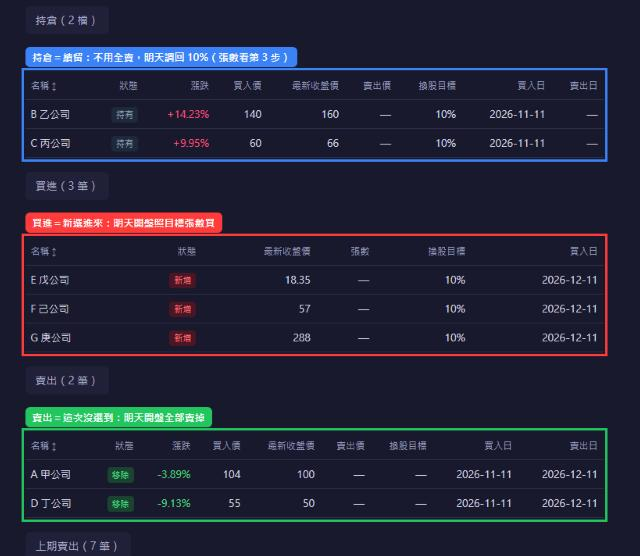
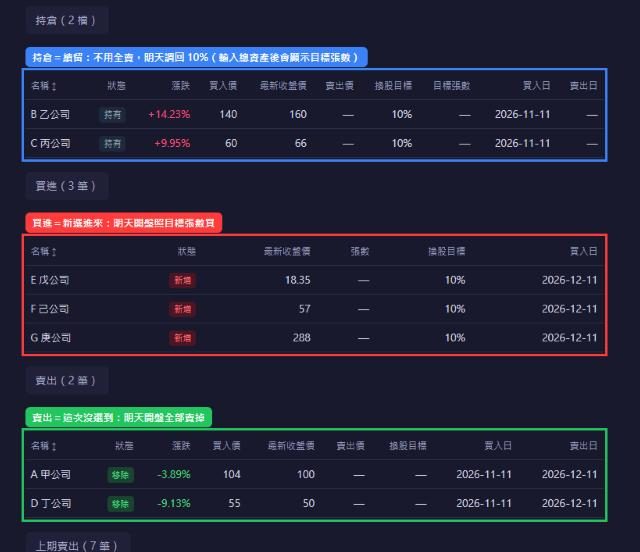
Show target lots for kept stocks in the holdings table
After entering total assets, kept stocks now show their target lots
next to the 10% target, so the order is target minus lots held without
opening the allocation estimate. Tutorial step 3 and its screenshots
show the new column.

diff --git a/watch2/index.html b/watch2/index.html
@@ -1,6 +1,6 @@
 <!doctype html>
 <html lang="zh-Hant"><head><meta charset="utf-8"><meta name="viewport" content="width=device-width,initial-scale=1">
-<title>每月換股策略（固定日期・10 檔）</title><link rel="stylesheet" href="../assets/dashboard.css?v=2994f2f10104"></head>
+<title>每月換股策略（固定日期・10 檔）</title><link rel="stylesheet" href="../assets/dashboard.css?v=844d0f4c621e"></head>
 <body><main class="container">
 <button class="help-btn" id="help-open" type="button">教學</button>
 <h1 id="title"></h1><div class="sub" id="rules"></div><div class="sub" id="date"></div><div class="sub" id="updated"></div>
@@ -24,11 +24,11 @@
 <ol class="help-steps">
 <li><b>選股日晚上 9 點後打開網頁，確認新名單已鎖定。</b>「本期選股日」是今天、「更新時間」是今晚 21:00 以後、而且不是紅字。200 元版如果營收還沒到齊會順延，選股日不是今天就代表今晚不用換股。<img src="../assets/tutorial/1-check-update.png" alt="標題下方的本期選股日與更新時間" loading="lazy"></li>
 <li><b>看三個區塊。</b><br>賣出：這次沒選到，明天開盤全部賣掉。<br>持倉：續留，不用全賣，但要調回總資產的 10%。<br>買進：新選進來，明天開盤買。<img src="../assets/tutorial/2-three-lists.png" alt="持倉、買進、賣出三個區塊" loading="lazy"></li>
-<li><b>輸入帳戶總資產，看每檔目標張數。</b>在「買進」區填「股票市值＋現金」（單位萬元），再展開「各股配置試算（含續留股）」。<img src="../assets/tutorial/3-target-lots.png" alt="輸入總資產後的各股目標張數" loading="lazy"></li>
+<li><b>輸入帳戶總資產，看每檔目標張數。</b>在「買進」區填「股票市值＋現金」（單位萬元），持倉表和買進表就會直接顯示每檔目標張數。<img src="../assets/tutorial/3-target-lots.png" alt="輸入總資產後，持倉表與買進表顯示目標張數" loading="lazy"></li>
 <li><b>算出明天的委託單。</b><br>賣出區：手上張數全部賣。<br>持倉區：目標張數減手上張數，正的買、負的賣。例：乙公司目標 6 張、手上 8 張，就賣 2 張。<br>買進區：照目標張數買。</li>
 <li><b>換股日早上 8 點再看一次。</b>「更新時間」如果變成紅字加警告，代表昨晚沒有更新成功，先不要下單。<img src="../assets/tutorial/4-stale-warning.png" alt="更新時間變紅並出現警告" loading="lazy"></li>
 <li><b>8:30～9:00 盤前同時下賣單和買單。</b>用市價，或賣單掛跌停、買單掛漲停，讓它們在 9:00 開盤成交，跟回測用開盤價一致。同一天買賣的交割款會互相抵掉，只要準備差額。</li>
 <li><b>換股日晚上網頁更新後確認。</b>買進、賣出變成 0 筆，全部股票都在「持倉」，剛賣掉的移到「上期賣出」。之後到下個月選股日都不用動。</li>
 </ol></div></div>
[1 lines of base64/hex data omitted]
-<script src="../assets/allocation.js?v=2994f2f10104"></script><script src="../assets/dashboard.js?v=2994f2f10104"></script></body></html>
+<script src="../assets/allocation.js?v=844d0f4c621e"></script><script src="../assets/dashboard.js?v=844d0f4c621e"></script></body></html>

diff --git a/2026/index.html b/2026/index.html
@@ -1,6 +1,6 @@
 <!doctype html>
 <html lang="zh-Hant"><head><meta charset="utf-8"><meta name="viewport" content="width=device-width,initial-scale=1">
-<title>每月換股策略（200 元・獲利再投入）</title><link rel="stylesheet" href="../assets/dashboard.css?v=2994f2f10104"></head>
+<title>每月換股策略（200 元・獲利再投入）</title><link rel="stylesheet" href="../assets/dashboard.css?v=844d0f4c621e"></head>
 <body><main class="container">
 <button class="help-btn" id="help-open" type="button">教學</button>
 <h1 id="title"></h1><div class="sub" id="rules"></div><div class="sub" id="date"></div><div class="sub" id="updated"></div>
@@ -24,11 +24,11 @@
 <ol class="help-steps">
 <li><b>選股日晚上 9 點後打開網頁，確認新名單已鎖定。</b>「本期選股日」是今天、「更新時間」是今晚 21:00 以後、而且不是紅字。200 元版如果營收還沒到齊會順延，選股日不是今天就代表今晚不用換股。<img src="../assets/tutorial/1-check-update.png" alt="標題下方的本期選股日與更新時間" loading="lazy"></li>
 <li><b>看三個區塊。</b><br>賣出：這次沒選到，明天開盤全部賣掉。<br>持倉：續留，不用全賣，但要調回總資產的 10%。<br>買進：新選進來，明天開盤買。<img src="../assets/tutorial/2-three-lists.png" alt="持倉、買進、賣出三個區塊" loading="lazy"></li>
-<li><b>輸入帳戶總資產，看每檔目標張數。</b>在「買進」區填「股票市值＋現金」（單位萬元），再展開「各股配置試算（含續留股）」。<img src="../assets/tutorial/3-target-lots.png" alt="輸入總資產後的各股目標張數" loading="lazy"></li>
+<li><b>輸入帳戶總資產，看每檔目標張數。</b>在「買進」區填「股票市值＋現金」（單位萬元），持倉表和買進表就會直接顯示每檔目標張數。<img src="../assets/tutorial/3-target-lots.png" alt="輸入總資產後，持倉表與買進表顯示目標張數" loading="lazy"></li>
 <li><b>算出明天的委託單。</b><br>賣出區：手上張數全部賣。<br>持倉區：目標張數減手上張數，正的買、負的賣。例：乙公司目標 6 張、手上 8 張，就賣 2 張。<br>買進區：照目標張數買。</li>
 <li><b>換股日早上 8 點再看一次。</b>「更新時間」如果變成紅字加警告，代表昨晚沒有更新成功，先不要下單。<img src="../assets/tutorial/4-stale-warning.png" alt="更新時間變紅並出現警告" loading="lazy"></li>
 <li><b>8:30～9:00 盤前同時下賣單和買單。</b>用市價，或賣單掛跌停、買單掛漲停，讓它們在 9:00 開盤成交，跟回測用開盤價一致。同一天買賣的交割款會互相抵掉，只要準備差額。</li>
 <li><b>換股日晚上網頁更新後確認。</b>買進、賣出變成 0 筆，全部股票都在「持倉」，剛賣掉的移到「上期賣出」。之後到下個月選股日都不用動。</li>
 </ol></div></div>
 <script id="strategy-data" type="application/json">{"schema_version": 1, "strategy_version": "2026-reinvest-v3", "date": "2026-11-10", "generated_at": "2026-11-10T23:04:28.774126+08:00", "stale_after": "2026-11-12T08:00:00+08:00", "start": "2008-03-10", "selection_date": "2026-11-10", "performance": {"cagr": 0.353174079693229, "sharpe": 1.314189846978164, "max_drawdown": -0.3174262277172667, "win_rate": 0.5066079295154186, "closed_trades": 1590, "valid_closed_trades": 1589, "avg_return": 0.03901139212169176, "max_gain": 1.4019650600939682, "max_loss": -0.4312278828395434, "missing_return_trades": 1}, "yearly_returns": {"2008": 0.018610648197257884, "2009": 0.37941459670857447, "2010": 0.5228052729121193, "2011": -0.044807359497551436, "2012": 0.03629261737938494, "2013": 0.7680299428773871, "2014": -0.004392855184781941, "2015": 0.10837172205491363, "2016": 0.13899604644493957, "2017": 0.701132688525758, "2018": 0.26376617608735, "2019": 0.3593900098522931, "2020": 1.618432402823304, "2021": 0.8564125924523156, "2022": 0.057741776952789925, "2023": 0.5450747678412451, "2024": 0.378936939926225, "2025": 0.6215094572925768, "2026": 0.15966044234314714}, "monthly_returns": {"2008-01": 0.0, "2008-02": 0.0, "2008-03": 0.02712627884615393, "2008-04": 0.0598072634802731, "2008-05": 0.0032901729330812035, "2008-06": -0.04215520617249768, "2008-07": 0.015182914591634011, "2008-08": -0.01417981853520367, "2008-09": -0.022784820185584365, "2008-10": 0.00569784332657175, "2008-11": -0.015330343810022296, "2008-12": 0.0054153120953992495, "2009-01": -0.0037029743040494223, "2009-02": 0.014363705981369268, "2009-03": 0.04513899804286048, "2009-04": 0.01409788262388667, "2009-05": 0.03835146623002217, "2009-06": -0.09145800654430503, "2009-07": 0.07932415939233328, "2009-08": -0.004783513082949442, "2009-09": 0.1446608393182538, "2009-10": -0.050317508094486874, "2009-11": 0.02886136614818957, "2009-12": 0.1362853041725256, "2010-01": -0.12145154223806987, "2010-02": 0.010086231800399359, "2010-03": 0.1968621425087247, "2010-04": 0.01337604676769999, "2010-05": -0.09256519857565948, "2010-06": 0.048931439375270225, "2010-07": 0.09082052073121849, "2010-08": 0.029257833665331967, "2010-09": 0.1356787037602305, "2010-10": -0.001743199077407831, "2010-11": 0.03556596282774671, "2010-12": 0.1276904270472219, "2011-01": -0.003222182665358897, "2011-02": 0.1273941158675964, "2011-03": 0.02864660335265956, "2011-04": -0.025869710557080206, "2011-05": 0.006850646832187168, "2011-06": 0.03617294489814382, "2011-07": 0.01845116658815882, "2011-08": -0.16069369490363494, "2011-09": -0.02202166119371929, "2011-10": 0.005857162208872779, "2011-11": -0.03188405209879075, "2011-12": -0.0011904747578550534, "2012-01": -0.016481662708186295, "2012-02": 0.006972633373856674, "2012-03": 0.015476058567596596, "2012-04": -0.014411471305841306, "2012-05": -0.02133500453591597, "2012-06": 0.017815796059913236, "2012-07": 0.01340174693367402, "2012-08": 0.04944298016216986, "2012-09": 0.02317325490502742, "2012-10": -0.02946615550054643, "2012-11": -0.0014221412897712504, "2012-12": -0.004751773008617399, "2013-01": 9.444449492446161e-05, "2013-02": 0.1040619290335183, "2013-03": 0.03467615327420259, "2013-04": 0.03764286095404046, "2013-05": 0.16570000735919876, "2013-06": -0.04622872939150913, "2013-07": 0.12166077293515332, "2013-08": -0.009574339407751653, "2013-09": -0.023221532056834082, "2013-10": 0.06761672557439846, "2013-11": 0.01618286629340937, "2013-12": 0.13947567476167566, "2014-01": -0.08800504935984332, "2014-02": 0.14739420375723777, "2014-03": 0.03288032374993044, "2014-04": -0.10331941000078348, "2014-05": 0.09476281064779135, "2014-06": 0.006677375418698173, "2014-07": 0.04118955402866975, "2014-08": -0.027921846801752692, "2014-09": -0.055019329194529565, "2014-10": -0.08201146422873695, "2014-11": 0.01819257351596626, "2014-12": 0.04271040890514732, "2015-01": 0.028715137945546143, "2015-02": 0.00900574547736599, "2015-03": 0.04214695523745404, "2015-04": 0.015334369774098633, "2015-05": 0.012881413503229577, "2015-06": 0.020671041381028266, "2015-07": -0.061893272735182414, "2015-08": -0.00443763137494646, "2015-09": 0.042032626551272934, "2015-10": 0.04996343479388421, "2015-11": -0.02631448444889184, "2015-12": -0.018886398867233978, "2016-01": 0.018873001827852454, "2016-02": 0.0035274111456291557, "2016-03": 0.01816076384662879, "2016-04": -0.013841669327275041, "2016-05": 0.003336157594042044, "2016-06": 0.048251667093056394, "2016-07": 0.03175881695426064, "2016-08": 0.04419845421287483, "2016-09": -0.004889249131973417, "2016-10": -0.00764485107038404, "2016-11": 0.01177086930627369, "2016-12": -0.020022868869373323, "2017-01": 0.041772613942801184, "2017-02": 0.09336776376980627, "2017-03": -0.016093030608857917, "2017-04": -0.04708745350077359, "2017-05": -0.011774386946082016, "2017-06": -0.02553674635172487, "2017-07": 0.08609287860711845, "2017-08": 0.16543405195267002, "2017-09": 0.08878978951987948, "2017-10": 0.14132884706480842, "2017-11": 0.04277445083052411, "2017-12": 0.008487335161158738, "2018-01": 0.06684422927079381, "2018-02": -0.02751155179114495, "2018-03": 0.16290473013584728, "2018-04": -0.02055583336463429, "2018-05": 0.1254919872267004, "2018-06": 0.03633608307214953, "2018-07": -0.029836021337939722, "2018-08": 0.027615909185506382, "2018-09": -0.025023810499697152, "2018-10": -0.1068446032057675, "2018-11": 0.0341615594238589, "2018-12": 0.02124283810279337, "2019-01": 0.0533607724363101, "2019-02": 0.05159528858064899, "2019-03": 0.023418770223369023, "2019-04": 0.015934286296474864, "2019-05": -0.014914440467394985, "2019-06": -0.006115023470204095, "2019-07": 0.15577720848859222, "2019-08": 0.057385262139919124, "2019-09": -0.06783367305693411, "2019-10": 0.04493537870275288, "2019-11": 0.016824638387810564, "2019-12": -0.004014666559141844, "2020-01": -0.017955839780752436, "2020-02": -0.003899631611787302, "2020-03": -0.016803963681160106, "2020-04": 0.16686851226203436, "2020-05": 0.14375448337867258, "2020-06": 0.12573819881501413, "2020-07": 0.14780328590542635, "2020-08": 0.3168674938420697, "2020-09": -0.07323060277413673, "2020-10": 0.025560445034850998, "2020-11": 0.14720461868144707, "2020-12": 0.09949085576814043, "2021-01": 0.045873994341810276, "2021-02": 0.1609866009664791, "2021-03": 0.02097770158127421, "2021-04": 0.16696791172609338, "2021-05": -0.07974067925287465, "2021-06": 0.11286338586229094, "2021-07": -0.022522233840228223, "2021-08": -0.019292924401443035, "2021-09": -0.020579074999131253, "2021-10": 0.06630078513279813, "2021-11": 0.04439828912957067, "2021-12": 0.1983377153109942, "2022-01": -0.13958274798337122, "2022-02": 0.04108022223161223, "2022-03": 0.03294108353952385, "2022-04": 0.059308018502799875, "2022-05": 0.12570078410640217, "2022-06": -0.10083510499289194, "2022-07": -0.0008915056267865262, "2022-08": 0.11963179868584528, "2022-09": -0.05931945611696443, "2022-10": -0.07396616256763655, "2022-11": 0.06786883004728983, "2022-12": 0.024593097908497175, "2023-01": -0.01040442348021342, "2023-02": 0.1327200858860178, "2023-03": 0.08954645236675929, "2023-04": 0.11523878965180634, "2023-05": 0.062130317297380167, "2023-06": 0.08804522913405233, "2023-07": 0.01303668819769399, "2023-08": -0.062237141797905515, "2023-09": -0.006367956492512428, "2023-10": -0.015201472497978319, "2023-11": 0.06850671753419202, "2023-12": -0.011760192879883502, "2024-01": 0.16680072558375825, "2024-02": 0.08703142730063207, "2024-03": -0.025205350870537213, "2024-04": 0.02190634572306771, "2024-05": 0.0705562447792003, "2024-06": 0.07775561469442205, "2024-07": 0.0694949303861585, "2024-08": -0.008426734589593088, "2024-09": 0.038101285521839, "2024-10": -0.040207417935950174, "2024-11": -0.023915693741800137, "2024-12": -0.08284315384399998, "2025-01": -0.06244152386599433, "2025-02": 0.10186520722554748, "2025-03": -0.06197301637827324, "2025-04": -0.0077471908459296746, "2025-05": 0.002313261415967105, "2025-06": 0.006930179270600245, "2025-07": 0.040588780725515194, "2025-08": 0.23263162086607436, "2025-09": 0.030926248816388613, "2025-10": 0.0650207441834616, "2025-11": 0.03622243862316643, "2025-12": 0.14498829862920037, "2026-01": 0.08375340829509614, "2026-02": -0.01827732059302367, "2026-03": 0.03828094661651815, "2026-04": 0.12169385138130262, "2026-05": 0.1856915802235959, "2026-06": -0.010424918179192, "2026-07": -0.1891656514022697, "2026-08": 0.10614684554342313, "2026-09": -0.029073764101265276, "2026-10": -0.10431766921713403, "2026-11": 0.02262561194757562}, "holdings": [{"stock_id": "1815", "name": "富喬", "entry_date": "2026-10-13T00:00:00", "exit_date": null, "entry_sig_date": "2026-10-12T00:00:00", "exit_sig_date": "2026-11-10T00:00:00", "return": -0.016787692307692392, "position": 0.1, "trade_price@entry_date": 130.0, "trade_price@exit_date": 134.5, "close": 128.0}, {"stock_id": "2340", "name": "台亞", "entry_date": "2026-10-13T00:00:00", "exit_date": null, "entry_sig_date": "2026-10-12T00:00:00", "exit_sig_date": "2026-11-10T00:00:00", "return": -0.20929956225680935, "position": 0.1, "trade_price@entry_date": 51.4, "trade_price@exit_date": 38.75, "close": 40.7}, {"stock_id": "2607", "name": "榮運", "entry_date": "2026-10-13T00:00:00", "exit_date": null, "entry_sig_date": "2026-10-12T00:00:00", "exit_sig_date": "2026-11-10T00:00:00", "return": -0.008347530329289365, "position": 0.1, "trade_price@entry_date": 57.7, "trade_price@exit_date": 56.0, "close": 57.3}, {"stock_id": "3016", "name": "嘉晶", "entry_date": "2026-10-13T00:00:00", "exit_date": null, "entry_sig_date": "2026-10-12T00:00:00", "exit_sig_date": "2026-11-10T00:00:00", "return": -0.3295282142857141, "position": 0.1, "trade_price@entry_date": 175.0, "trade_price@exit_date": 117.5, "close": 117.5}, {"stock_id": "3287", "name": "廣寰科", "entry_date": "2026-10-13T00:00:00", "exit_date": null, "entry_sig_date": "2026-10-12T00:00:00", "exit_sig_date": "2026-11-10T00:00:00", "return": 0.5568334645669282, "position": 0.1, "trade_price@entry_date": 50.8, "trade_price@exit_date": 88.6, "close": 79.2}, {"stock_id": "3564", "name": "其陽", "entry_date": "2026-10-13T00:00:00", "exit_date": null, "entry_sig_date": "2026-10-12T00:00:00", "exit_sig_date": "2026-11-10T00:00:00", "return": -0.2591672073342738, "position": 0.1, "trade_price@entry_date": 70.9, "trade_price@exit_date": 51.6, "close": 52.6}, {"stock_id": "3597", "name": "映興", "entry_date": "2026-10-13T00:00:00", "exit_date": null, "entry_sig_date": "2026-10-12T00:00:00", "exit_sig_date": "2026-11-10T00:00:00", "return": -0.23052193930041154, "position": 0.1, "trade_price@entry_date": 48.6, "trade_price@exit_date": 34.5, "close": 37.45}, {"stock_id": "5230", "name": "雷笛克光學", "entry_date": "2026-10-13T00:00:00", "exit_date": null, "entry_sig_date": "2026-10-12T00:00:00", "exit_sig_date": "2026-11-10T00:00:00", "return": 0.21045338899803534, "position": 0.1, "trade_price@entry_date": 25.45, "trade_price@exit_date": 29.3, "close": 30.85}, {"stock_id": "6505", "name": "台塑化", "entry_date": "2026-10-13T00:00:00", "exit_date": null, "entry_sig_date": "2026-10-12T00:00:00", "exit_sig_date": "2026-11-10T00:00:00", "return": -0.15988431924882618, "position": 0.1, "trade_price@entry_date": 106.5, "trade_price@exit_date": 88.5, "close": 89.6}, {"stock_id": "6834", "name": "天二科技", "entry_date": "2026-10-13T00:00:00", "exit_date": null, "entry_sig_date": "2026-10-12T00:00:00", "exit_sig_date": "2026-11-10T00:00:00", "return": -0.33718746644295283, "position": 0.1, "trade_price@entry_date": 149.0, "trade_price@exit_date": 101.0, "close": 98.9}], "pending": [{"stock_id": "1416", "name": "廣豐", "entry_date": null, "exit_date": null, "entry_sig_date": "2026-11-10T00:00:00", "exit_sig_date": null, "return": null, "position": null, "trade_price@entry_date": 18.9, "trade_price@exit_date": 18.9, "close": 18.35}, {"stock_id": "2412", "name": "中華電", "entry_date": null, "exit_date": null, "entry_sig_date": "2026-11-10T00:00:00", "exit_sig_date": null, "return": null, "position": null, "trade_price@entry_date": 156.5, "trade_price@exit_date": 156.5, "close": 159.5}, {"stock_id": "2468", "name": "華經", "entry_date": null, "exit_date": null, "entry_sig_date": "2026-11-10T00:00:00", "exit_sig_date": null, "return": null, "position": null, "trade_price@entry_date": 63.7, "trade_price@exit_date": 63.7, "close": 66.0}, {"stock_id": "6112", "name": "邁達特", "entry_date": null, "exit_date": null, "entry_sig_date": "2026-11-10T00:00:00", "exit_sig_date": null, "return": null, "position": null, "trade_price@entry_date": 52.4, "trade_price@exit_date": 52.4, "close": 57.0}], "recent_sells": [{"stock_id": "2606", "name": "裕民", "entry_date": "2026-09-11T00:00:00", "exit_date": "2026-10-13T00:00:00", "entry_sig_date": "2026-09-10T00:00:00", "exit_sig_date": "2026-10-12T00:00:00", "return": -0.008425918545454492, "position": 0.1, "trade_price@entry_date": 77.0, "trade_price@exit_date": 76.8, "close": 69.8}, {"stock_id": "2617", "name": "台航", "entry_date": "2026-09-11T00:00:00", "exit_date": "2026-10-13T00:00:00", "entry_sig_date": "2026-09-10T00:00:00", "exit_sig_date": "2026-10-12T00:00:00", "return": -0.050424694627242084, "position": 0.1, "trade_price@entry_date": 33.45, "trade_price@exit_date": 31.95, "close": 30.15}, {"stock_id": "3219", "name": "倚強科", "entry_date": "2026-09-11T00:00:00", "exit_date": "2026-10-13T00:00:00", "entry_sig_date": "2026-09-10T00:00:00", "exit_sig_date": "2026-10-12T00:00:00", "return": 0.4160947376635178, "position": 0.1, "trade_price@entry_date": 86.0, "trade_price@exit_date": 122.5, "close": 109.0}], "latest_selection": {"picks": ["1416", "6112", "2468", "2412"], "yoy": {"1416": 45.45, "6112": 27.07, "2468": 20.0, "2412": 13.44}, "source": "original_revenue_gate", "recorded_at": "2026-11-10T21:05:37.394594+08:00", "forced": false, "execution_date": "2026-11-11"}, "allocation_prices": {"1416": {"close": 18.35, "name": ""}, "6112": {"close": 57.0, "name": ""}, "2468": {"close": 66.0, "name": ""}, "2412": {"close": 159.5, "name": ""}}, "limitations": ["沿用 200 元版選股名單、日期與手續費；全段歷史改以換股時總資產配置，獲利再投入。", "歷史名單含原版重算及鎖定結果，不代表當時均有保存；2026 年 8 月的兩次換股照原紀錄保留。", "與 600 元版同用 FinLab 開盤價模擬及缺價處理，未額外模擬滑價、未成交或整張限制。"], "metric_sources": {"cagr": "report.get_stats().cagr", "sharpe": "report.get_stats().daily_sharpe; riskfree_rate=0.02", "max_drawdown": "report.get_stats().max_drawdown", "win_rate": "closed trades with return > 0", "yearly_monthly": "report.get_stats().return_table", "trades": "report.get_trades(); kept-stock splits re-priced open-to-open (return_native keeps FinLab value)"}, "config": {"strategy_version": "2026-reinvest-v3", "title": "每月換股策略（200 元・獲利再投入）", "rules": ["股價 ≤ 200 元｜5 日均成交量 > 50 萬股｜排除金融保險業", "每月 10 號後等營收條件到齊；未齊最多順延 5 個交易日，名單鎖定後下一交易日開盤換股", "最多 10 檔，每檔換股目標 10%；續留股也重新配置，不足額留現金，獲利再投入"], "detail": "近 2 個月平均營收達近 12 個月最高；近 5 天至少 2 天達 200 日新高。符合條件且營收年增率為正，依年增率取前 10 檔。保留原版等營收、鎖名單及無合格名單不換股的行為；資金配置與 600 元版一致。沒有另加停損。", "engine_label": "FinLab 原生回測", "has_native_report": true, "allocation": {"mode": "rebalance", "capital_label": "換股時帳戶總資產", "weight": 0.1, "fee_buy": 0.001425, "fee_sell": 0.001425, "tax_sell": 0.003, "budget_includes_fee": true}}}</script>
-<script src="../assets/allocation.js?v=2994f2f10104"></script><script src="../assets/dashboard.js?v=2994f2f10104"></script></body></html>
+<script src="../assets/allocation.js?v=844d0f4c621e"></script><script src="../assets/dashboard.js?v=844d0f4c621e"></script></body></html>

diff --git a/dashboard_shared/dashboard.js b/dashboard_shared/dashboard.js
@@ -33,7 +33,7 @@ function stockTable(rows,mode){
  if(!rows.length)return `<div class="empty">${mode==='hold'?'本期沒有續留股票；預計賣出的股票列在「賣出」。':'目前沒有項目'}</div>`;
  if(mode==='buy')return `<table><thead><tr><th><button class="sort" type="button">名稱 ↕</button></th><th>狀態</th><th>最新收盤價</th><th>張數</th><th>${weightLabel}</th><th>買入日</th></tr></thead><tbody>${rows.map(r=>`<tr data-id="${esc(r.stock_id)}"><td>${esc(r.stock_id)} ${esc(r.name)}</td><td><span class="tag act-buy">新增</span></td><td>${num(r.close)}</td><td class="buy-shares" data-stock-id="${esc(r.stock_id)}">—</td><td>${pct(config.allocation.weight,0).replace('+','')}</td><td>${r.entry_date?date(r.entry_date):plannedDate}</td></tr>`).join('')}</tbody></table>`;
  const status=mode==='hold'?'持有':mode==='sell'?'移除':'已賣出';
- return `<table><thead><tr><th><button class="sort" type="button">名稱 ↕</button></th><th>狀態</th><th>漲跌</th><th>買入價</th><th>最新收盤價</th><th>賣出價</th><th>${weightLabel}</th><th>買入日</th><th>賣出日</th></tr></thead><tbody>${rows.map(r=>`<tr data-id="${esc(r.stock_id)}"><td>${esc(r.stock_id)} ${esc(r.name)}</td><td><span class="tag ${mode==='hold'?'act-hold':'act-sell'}">${status}</span></td><td>${ret(r.return)}</td><td>${num(r['trade_price@entry_date'])}</td><td>${num(r.close)}</td><td>${r.exit_date?num(r['trade_price@exit_date']):'—'}</td><td>${mode==='hold'?pct(r.position,0).replace('+',''):'—'}</td><td>${date(r.entry_date)}</td><td>${r.exit_date?date(r.exit_date):mode==='sell'?plannedDate:'—'}</td></tr>`).join('')}</tbody></table>`;
+ return `<table><thead><tr><th><button class="sort" type="button">名稱 ↕</button></th><th>狀態</th><th>漲跌</th><th>買入價</th><th>最新收盤價</th><th>賣出價</th><th>${weightLabel}</th>${mode==='hold'?'<th>目標張數</th>':''}<th>買入日</th><th>賣出日</th></tr></thead><tbody>${rows.map(r=>`<tr data-id="${esc(r.stock_id)}"><td>${esc(r.stock_id)} ${esc(r.name)}</td><td><span class="tag ${mode==='hold'?'act-hold':'act-sell'}">${status}</span></td><td>${ret(r.return)}</td><td>${num(r['trade_price@entry_date'])}</td><td>${num(r.close)}</td><td>${r.exit_date?num(r['trade_price@exit_date']):'—'}</td><td>${mode==='hold'?pct(r.position,0).replace('+',''):'—'}</td>${mode==='hold'?`<td class="buy-shares" data-stock-id="${esc(r.stock_id)}">—</td>`:''}<td>${date(r.entry_date)}</td><td>${r.exit_date?date(r.exit_date):mode==='sell'?plannedDate:'—'}</td></tr>`).join('')}</tbody></table>`;
 }
 document.getElementById('holding-title').textContent=`持倉（${holdingRows.length} 檔）`;
 document.getElementById('holdings').innerHTML=stockTable(holdingRows,'hold');

diff --git a/dashboard_shared/template.html b/dashboard_shared/template.html
@@ -24,7 +24,7 @@
 <ol class="help-steps">
 <li><b>選股日晚上 9 點後打開網頁，確認新名單已鎖定。</b>「本期選股日」是今天、「更新時間」是今晚 21:00 以後、而且不是紅字。200 元版如果營收還沒到齊會順延，選股日不是今天就代表今晚不用換股。<img src="../assets/tutorial/1-check-update.png" alt="標題下方的本期選股日與更新時間" loading="lazy"></li>
 <li><b>看三個區塊。</b><br>賣出：這次沒選到，明天開盤全部賣掉。<br>持倉：續留，不用全賣，但要調回總資產的 10%。<br>買進：新選進來，明天開盤買。<img src="../assets/tutorial/2-three-lists.png" alt="持倉、買進、賣出三個區塊" loading="lazy"></li>
-<li><b>輸入帳戶總資產，看每檔目標張數。</b>在「買進」區填「股票市值＋現金」（單位萬元），再展開「各股配置試算（含續留股）」。<img src="../assets/tutorial/3-target-lots.png" alt="輸入總資產後的各股目標張數" loading="lazy"></li>
+<li><b>輸入帳戶總資產，看每檔目標張數。</b>在「買進」區填「股票市值＋現金」（單位萬元），持倉表和買進表就會直接顯示每檔目標張數。<img src="../assets/tutorial/3-target-lots.png" alt="輸入總資產後，持倉表與買進表顯示目標張數" loading="lazy"></li>
 <li><b>算出明天的委託單。</b><br>賣出區：手上張數全部賣。<br>持倉區：目標張數減手上張數，正的買、負的賣。例：乙公司目標 6 張、手上 8 張，就賣 2 張。<br>買進區：照目標張數買。</li>
 <li><b>換股日早上 8 點再看一次。</b>「更新時間」如果變成紅字加警告，代表昨晚沒有更新成功，先不要下單。<img src="../assets/tutorial/4-stale-warning.png" alt="更新時間變紅並出現警告" loading="lazy"></li>
 <li><b>8:30～9:00 盤前同時下賣單和買單。</b>用市價，或賣單掛跌停、買單掛漲停，讓它們在 9:00 開盤成交，跟回測用開盤價一致。同一天買賣的交割款會互相抵掉，只要準備差額。</li>
